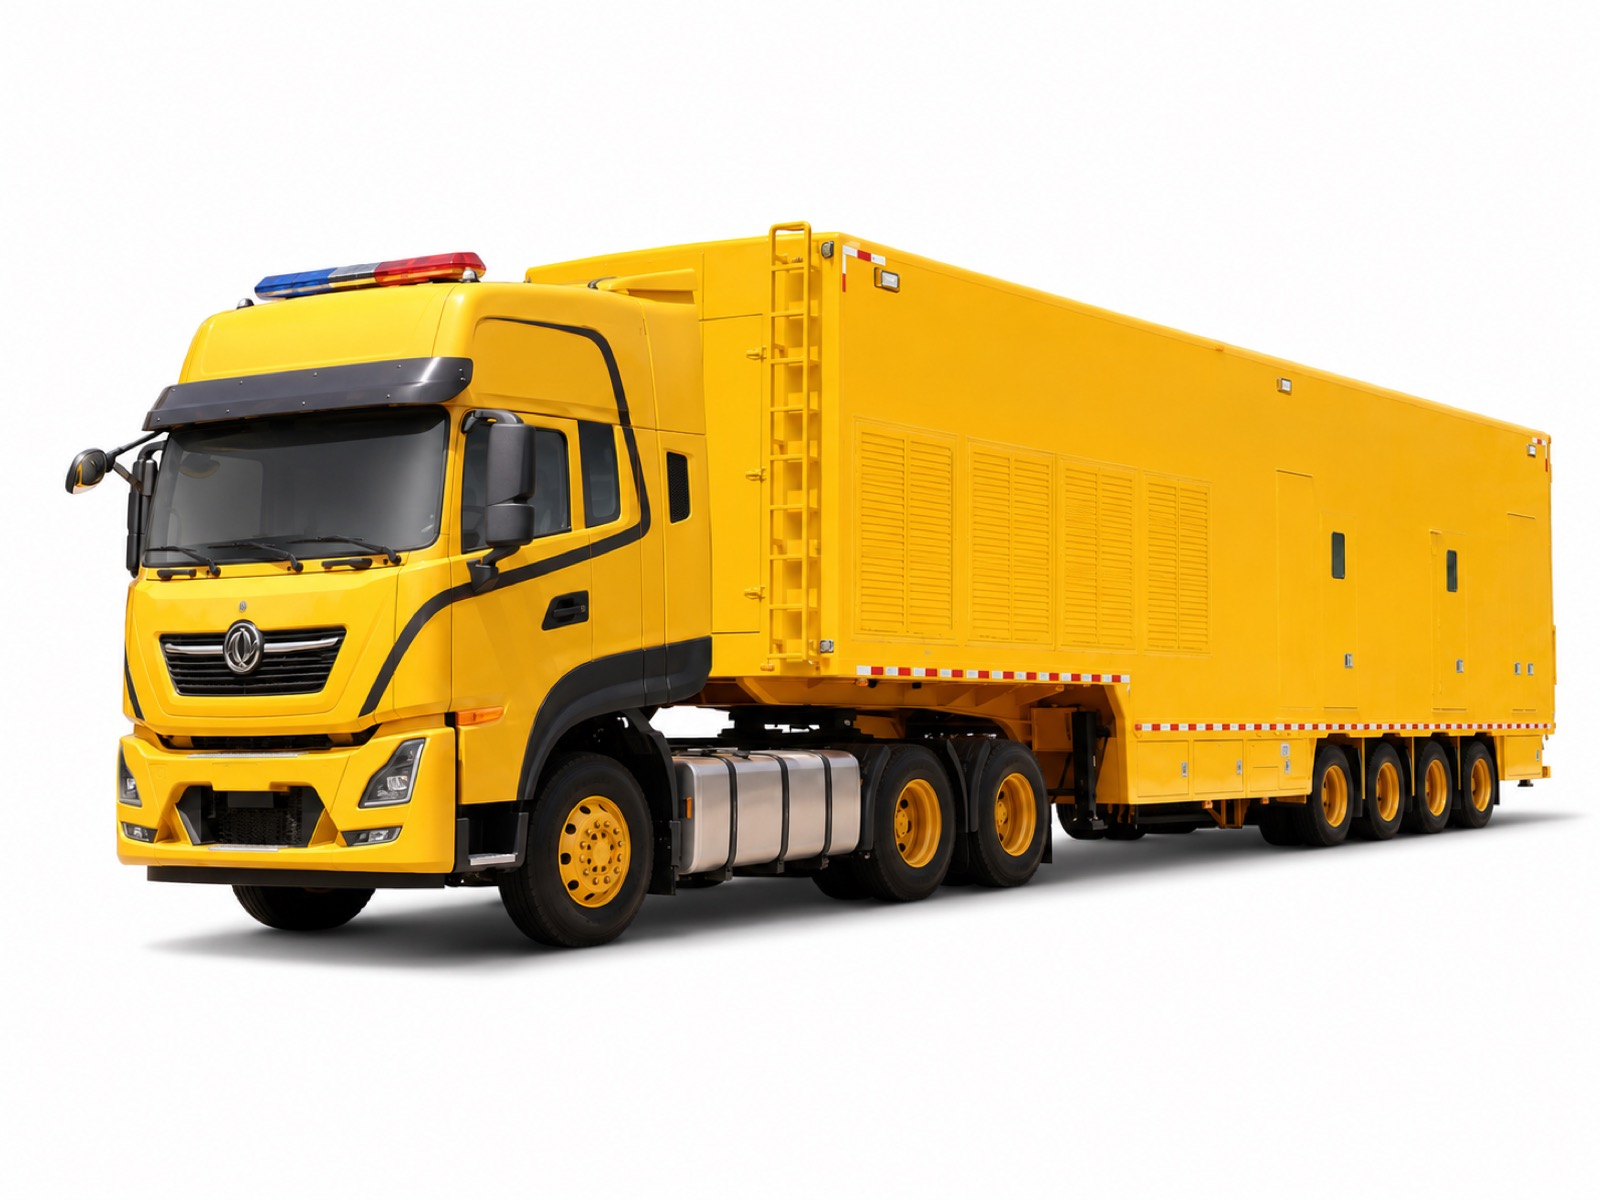
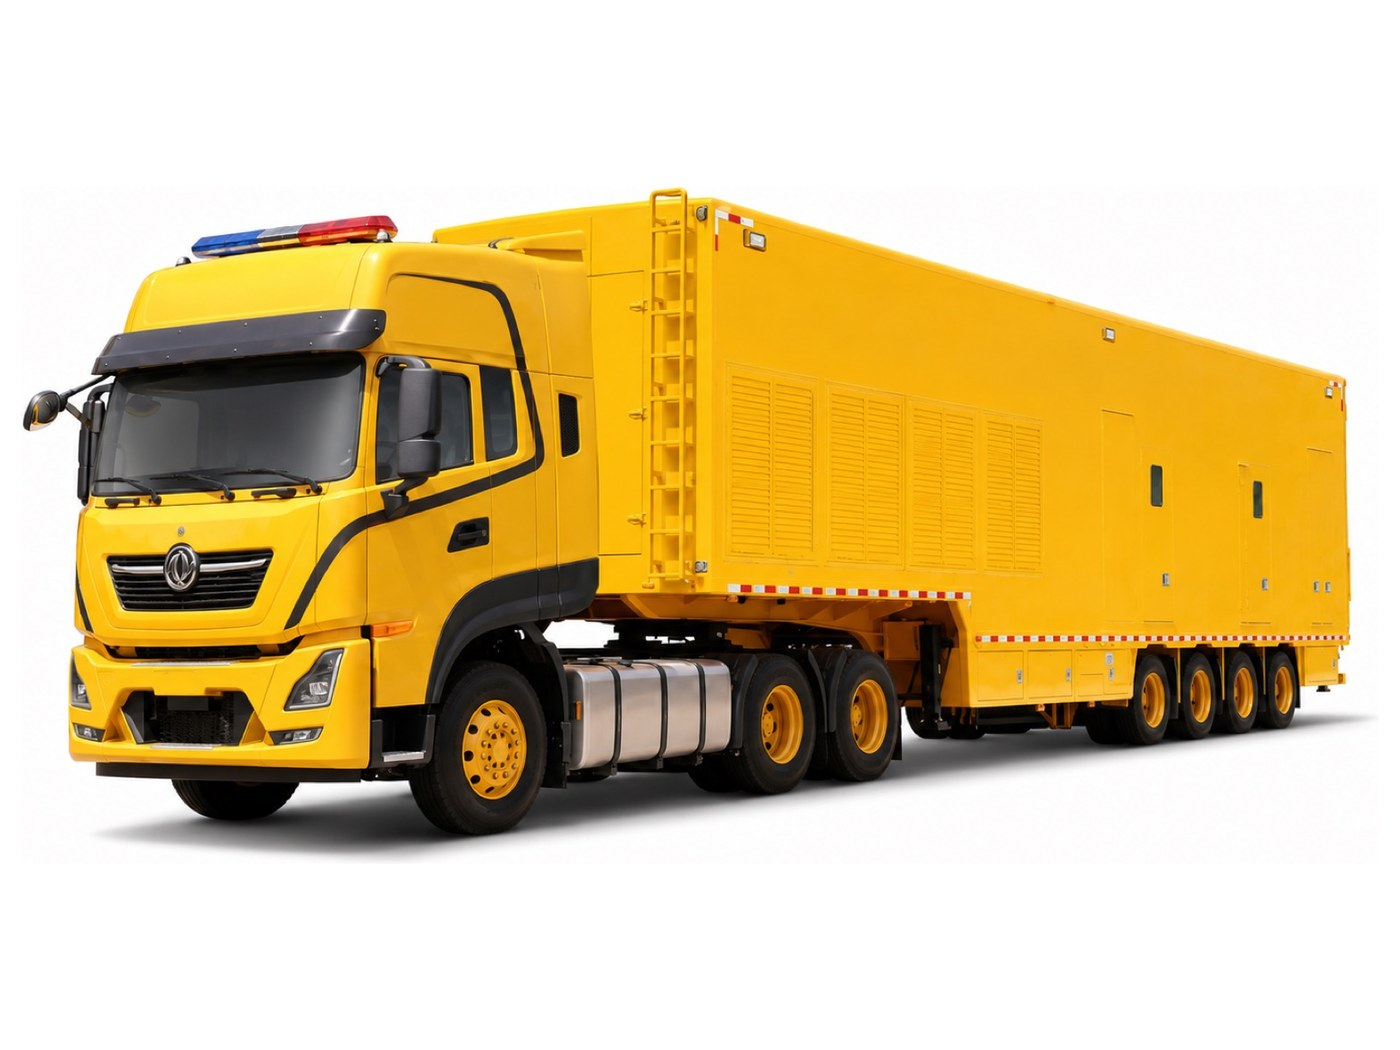
ui(special): 移动电力车改左文右图,配置清单缩排;全页图文左右交替
删掉轮播只留一张图后,那张图独占整个布局列,在首屏里显得过大。改用页内
其余车型同一套 .special-vehicle-layout(左文右图),图片回到正常尺寸。

- 「机动供电,随到随发」那组配置说明原来用的是 .ticks(正文字号、勾号),
  和上方 intro 抢注意力。换成小一号、红色短横起首的 .special-vehicle-list。
- 移动电力车图原本是 1600×1200 且未走统一处理,顺手归到和其余四张同一
  规格(1400×1050 白底、等比、配 webp),238KB → 140KB/65KB。
- 垃圾车一节改为图在右,现在全页五个车型左右交替,不再是一路同一个节奏。

diff --git a/special.html b/special.html
@@ -23,7 +23,7 @@
 <meta name="twitter:image" content="https://www.kstpower.com/assets/img/products/special/mobile-power-01.jpg">
 <script type="application/ld+json">{"@context":"https://schema.org","@graph":[{"@type":"Organization","@id":"https://www.kstpower.com/#org","name":"Guangzhou KST Mechanical Equipment Co., Ltd","alternateName":"KST POWER","url":"https://www.kstpower.com/","address":{"@type":"PostalAddress","addressLocality":"Guangzhou","addressRegion":"Guangdong","addressCountry":"CN"},"contactPoint":{"@type":"ContactPoint","contactType":"sales","email":"[email redacted]","availableLanguage":["en","zh"]},"areaServed":"Worldwide"},{"@type":"BreadcrumbList","itemListElement":[{"@type":"ListItem","position":1,"name":"Home","item":"https://www.kstpower.com/"},{"@type":"ListItem","position":2,"name":"Special Vehicle","item":"https://www.kstpower.com/special.html"}]}]}</script>
   <link rel="stylesheet" href="assets/fonts/fonts.css" />
-  <link rel="stylesheet" href="assets/css/styles.css?v=20260719-special" />
+  <link rel="stylesheet" href="assets/css/styles.css?v=20260719-spmobile" />
   <script>(function(){try{var l=localStorage.getItem('kst-lang');if(l==='en'||l==='ru'||l==='zh'){document.documentElement.setAttribute('data-lang',l);document.documentElement.setAttribute('lang',l==='zh'?'zh-CN':l);}}catch(e){}})();</script>
   <script src="assets/js/brand.js?v=20260719-footernav"></script>
 </head>
@@ -41,25 +41,25 @@
     </section>
 
     <!-- 移动电力车 -->
-    <section class="generator-brand-showcase" id="mobile-power" aria-labelledby="mp-title">
+    <section class="oil-section special-vehicle-section" id="mobile-power" aria-labelledby="mp-title">
       <div class="wrap">
-        <div class="generator-section-head">
-          <p class="eyebrow"><span class="zh">车载发电</span><span class="en">Vehicle-mounted power</span></p>
-          <h2 id="mp-title"><span class="zh">移动电力车</span><span class="en">Mobile Power Truck</span></h2>
-          <p><span class="zh">车载成套发电机组，用于应急供电、临时用电与野外作业保障；多种底盘与功率可选，快速部署、随车转场。</span><span class="en">Vehicle-mounted complete generator sets for emergency supply, temporary power and field operations; multiple chassis and ratings, fast deployment and easy relocation.</span></p>
-        </div>
-
-        <div class="generator-brand-layout">
-          <figure class="generator-brand-visual special-vehicle-figure">
-            <img src="assets/img/products/special/mobile-power-02.jpg" alt="移动电力车 半挂大功率版 Mobile power truck — semi-trailer" loading="lazy" decoding="async" />
+        <div class="special-vehicle-layout special-vehicle-layout--reverse">
+          <figure class="special-vehicle-figure">
+            <picture>
+              <source type="image/webp" srcset="assets/img/products/special/mobile-power-02.webp" />
+              <img src="assets/img/products/special/mobile-power-02.jpg" width="1400" height="1050" alt="移动电力车 半挂大功率版 Mobile power truck — semi-trailer" loading="lazy" decoding="async" />
+            </picture>
           </figure>
-          <div class="generator-brand-content">
-            <h3><span class="zh">机动供电，随到随发</span><span class="en">Mobile power, ready on arrival</span></h3>
-            <ul class="ticks">
-              <li><span class="zh"><strong>单机版</strong>：中型底盘，机动灵活，适合城区应急与临时供电</span><span class="en"><strong>Rigid</strong>: medium chassis, agile — for urban emergency and temporary power</span></li>
-              <li><span class="zh"><strong>半挂大功率版</strong>：大容量发电，适合工地、矿区与大型活动保障</span><span class="en"><strong>Semi-trailer</strong>: high capacity — for construction, mining and large events</span></li>
-              <li><span class="zh"><strong>轻型版</strong>：小型底盘，成本低、易操作，适合分散点位</span><span class="en"><strong>Light-duty</strong>: compact chassis, low cost and easy to operate for scattered sites</span></li>
+          <div class="special-vehicle-copy">
+            <p class="eyebrow"><span class="zh">车载发电</span><span class="en">Vehicle-mounted power</span></p>
+            <h2 id="mp-title"><span class="zh">移动电力车</span><span class="en">Mobile Power Truck</span></h2>
+            <p class="intro"><span class="zh">车载成套发电机组，用于应急供电、临时用电与野外作业保障；多种底盘与功率可选，快速部署、随车转场。</span><span class="en">Vehicle-mounted complete generator sets for emergency supply, temporary power and field operations; multiple chassis and ratings, fast deployment and easy relocation.</span></p>
+            <ul class="special-vehicle-list">
+              <li><span class="zh"><strong>单机版</strong>：中型底盘，机动灵活，适合城区应急与临时供电</span><span class="en"><strong>Rigid</strong> — medium chassis, agile; for urban emergency and temporary power</span></li>
+              <li><span class="zh"><strong>半挂大功率版</strong>：大容量发电，适合工地、矿区与大型活动保障</span><span class="en"><strong>Semi-trailer</strong> — high capacity; for construction, mining and large events</span></li>
+              <li><span class="zh"><strong>轻型版</strong>：小型底盘，成本低、易操作，适合分散点位</span><span class="en"><strong>Light-duty</strong> — compact chassis, low cost and easy to operate for scattered sites</span></li>
             </ul>
+            <p class="special-vehicle-note"><span class="zh">具体型号参数请邮件索取。</span><span class="en">Detailed specifications available on request.</span></p>
           </div>
         </div>
       </div>
@@ -128,7 +128,7 @@
     <!-- 垃圾车 -->
     <section class="oil-section special-vehicle-section" id="refuse" aria-labelledby="refuse-title">
       <div class="wrap">
-        <div class="special-vehicle-layout">
+        <div class="special-vehicle-layout special-vehicle-layout--reverse">
           <figure class="special-vehicle-figure">
             <picture>
               <source type="image/webp" srcset="assets/img/products/special/refuse-01.webp" />

diff --git a/assets/css/styles.css b/assets/css/styles.css
@@ -576,6 +576,17 @@ a.card { color: inherit; }
 .special-vehicle-copy h2 .zh { font-family: var(--font-zh); font-weight: 900; }
 .special-vehicle-copy .intro { margin-bottom: .9rem; }
 .special-vehicle-note { color: var(--color-ink-soft); font-size: .9rem; }
+/* 车型配置清单:比正文再小一号,红色短横起首,避免和 intro 抢注意力 */
+.special-vehicle-list { list-style: none; margin: 0 0 1rem; display: grid; gap: .5rem; }
+.special-vehicle-list li {
+  position: relative; padding-left: 1.1rem;
+  color: var(--color-ink-soft); font-size: .92rem; line-height: 1.6;
+}
+.special-vehicle-list li::before {
+  content: ''; position: absolute; left: 0; top: .62em;
+  width: .55rem; height: 2px; background: var(--color-brand);
+}
+.special-vehicle-list strong { color: var(--color-ink); font-weight: 700; }
 /* 相邻车型左右交替放图,避免整页一个节奏 */
 .special-vehicle-layout--reverse .special-vehicle-figure { order: 2; }
 /* 页头与紧随其后的首个车型块收紧,读起来是一整块而不是断成两截(仅 special 页出现此相邻关系) */